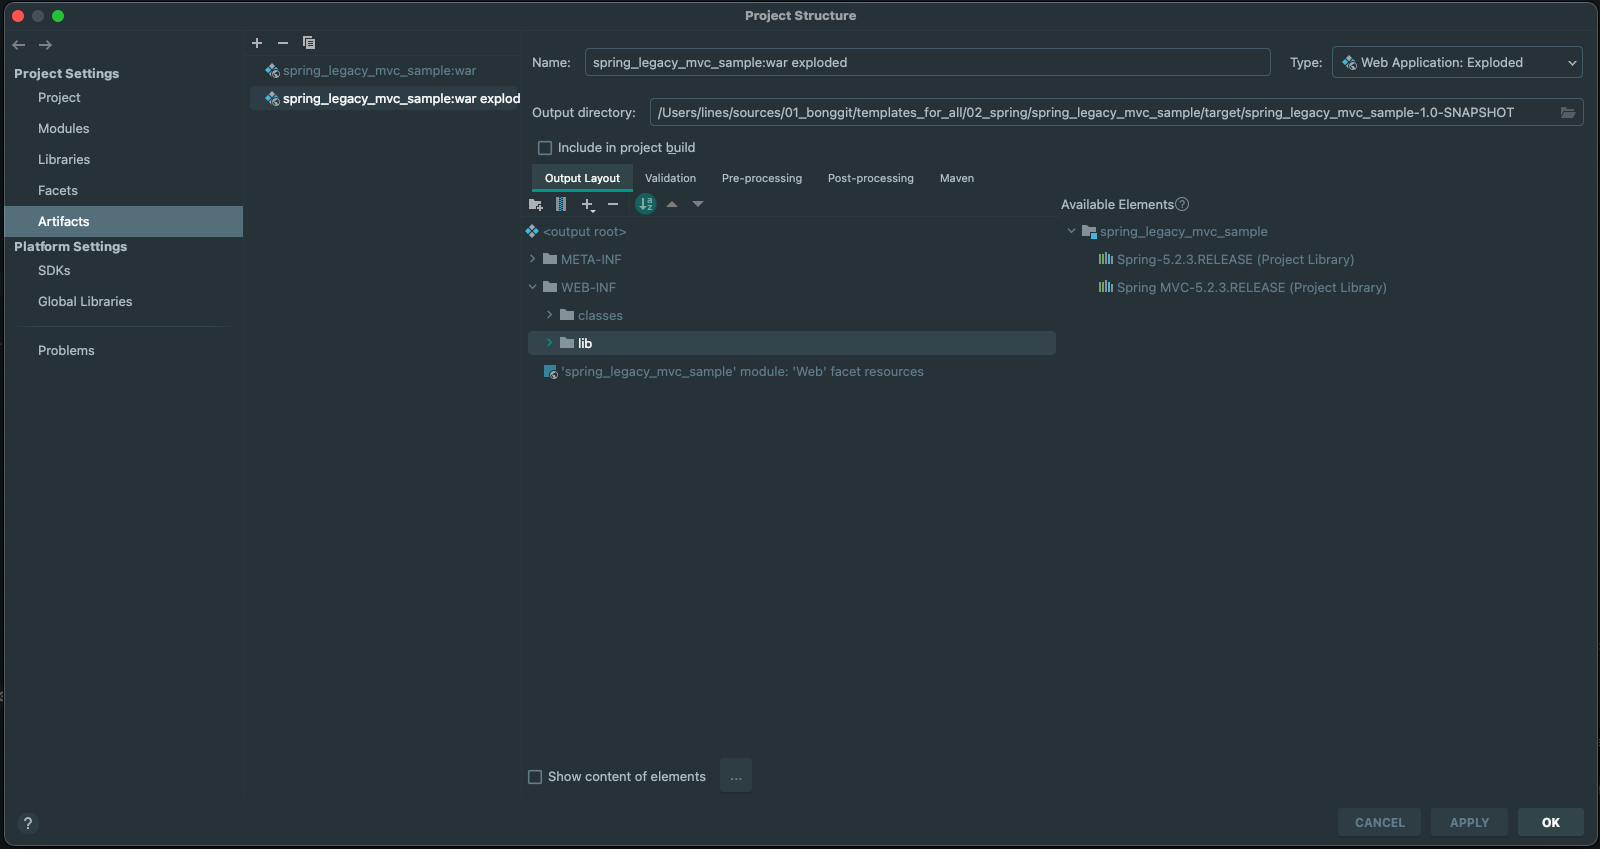
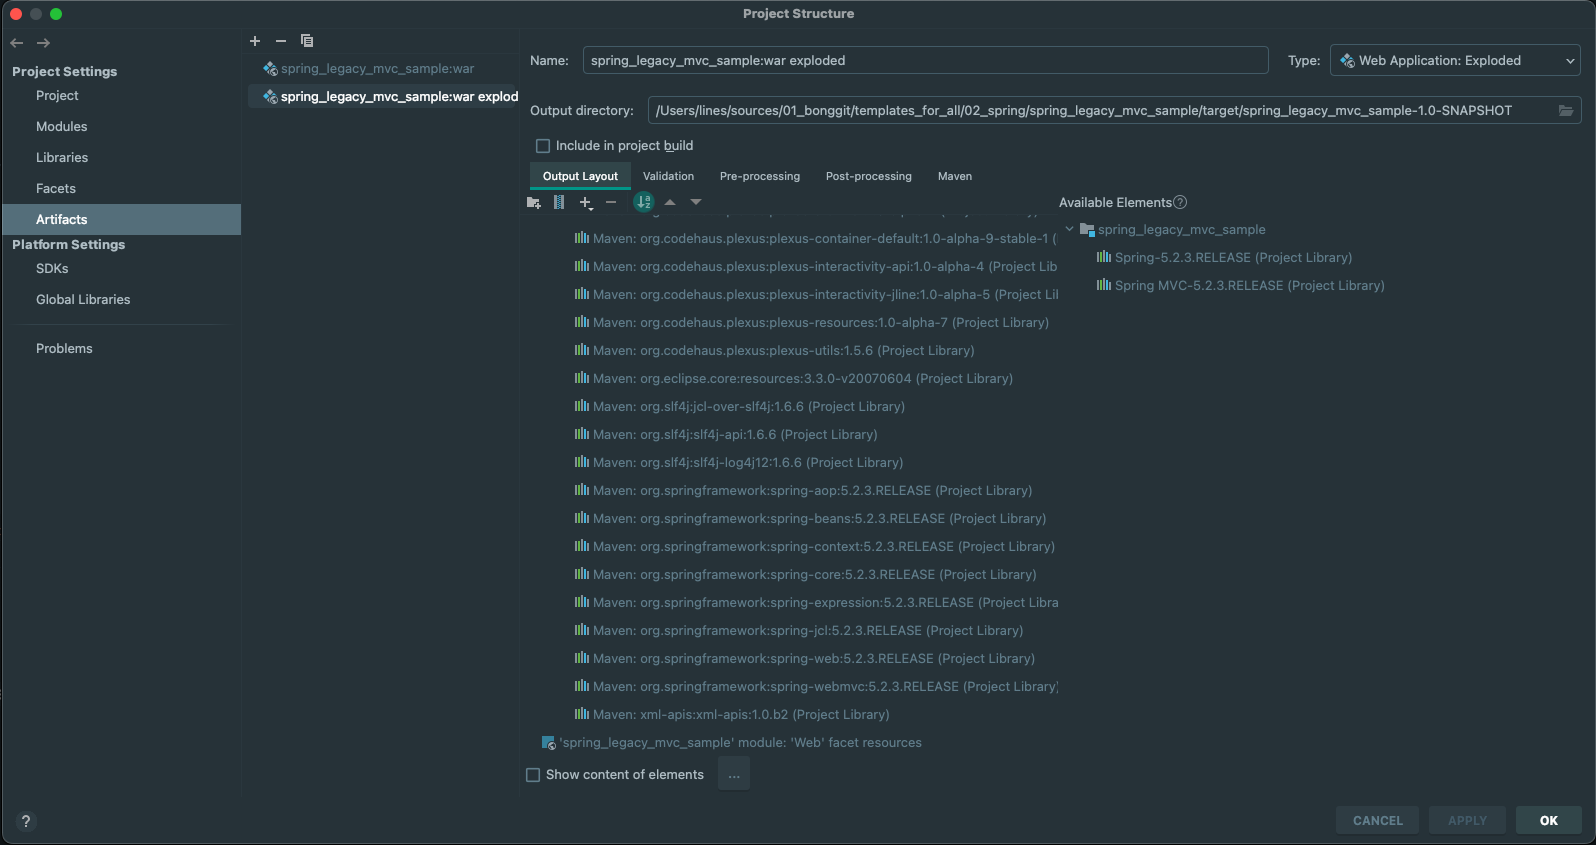
spring legacy project

diff --git a/02_spring/spring_legacy_mvc_sample/README.md b/02_spring/spring_legacy_mvc_sample/README.md
@@ -366,7 +366,7 @@ Log4J 기본적인 설정은 아래와 같이 할 수 있다.
 
 Project Structure 에서의 Artifact 에 아래와 같이 우측의 Element 요소에서 WEB-INF/lib 로 library를 추가해야한다. 
 
-![Tomcat Server Setting](https://github.com/keepinmindsh/templates_for_all/blob/main/02_spring/spring_legacy_mvc_sample/assets/0004_tomcatSetting_003.png)
+![Tomcat Server Setting](https://github.com/keepinmindsh/templates_for_all/blob/main/02_spring/spring_legacy_mvc_sample/assets/0004_tomcatSetting_004.png)
 
 
 # Hello World 
